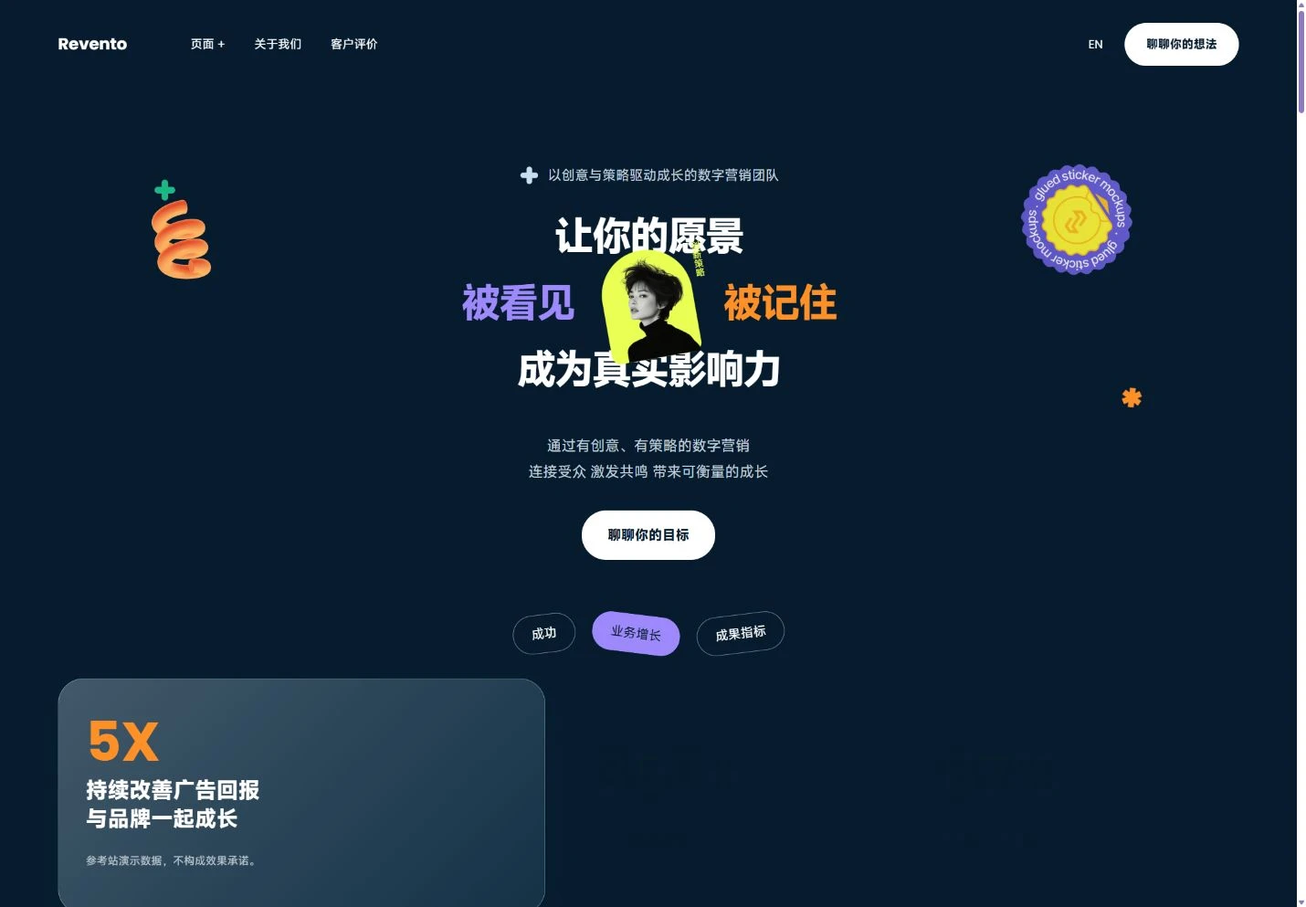
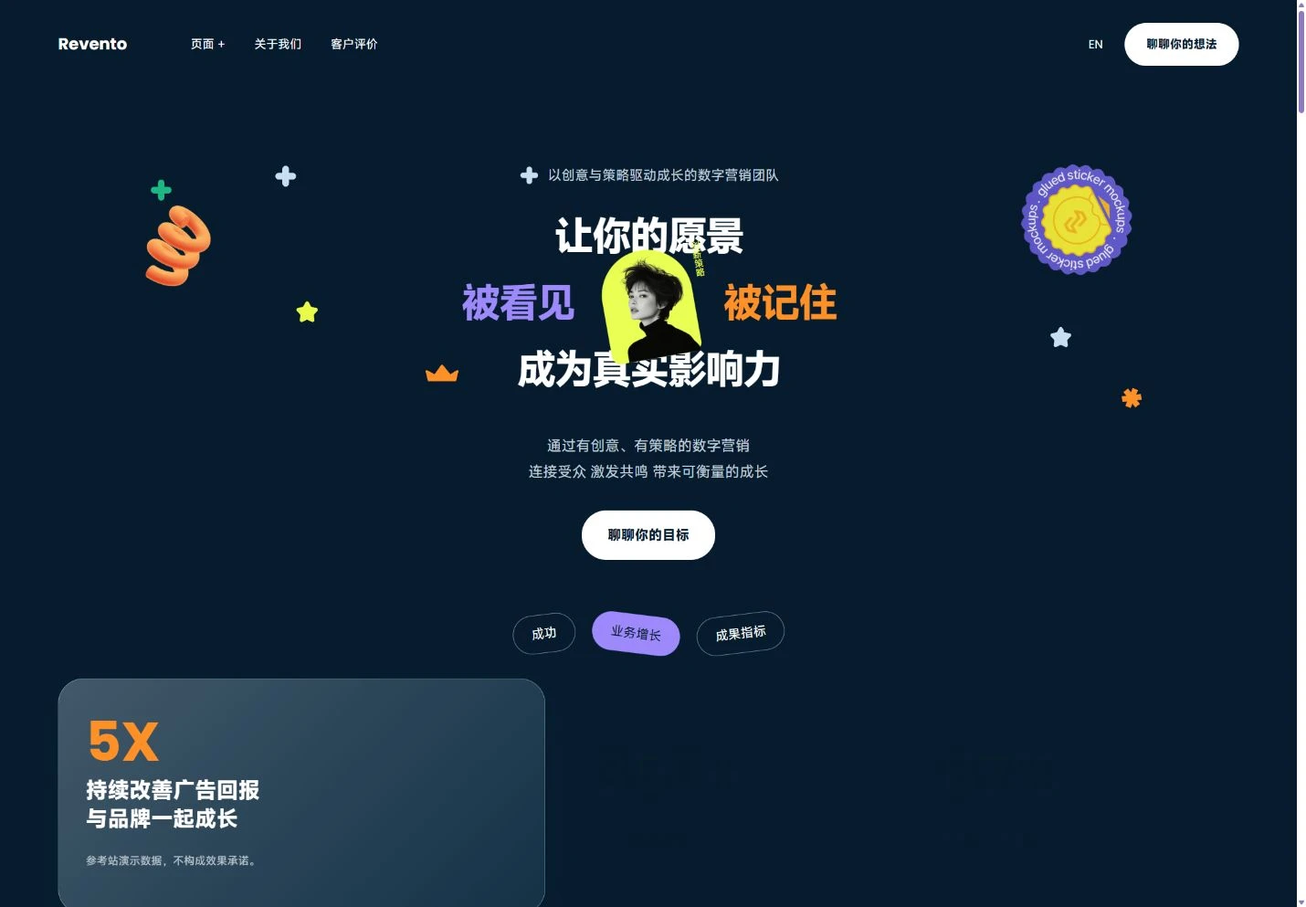
fix: match hero rotation and floating artwork

diff --git a/src/features/site-templates/catalog/revento/theme.css b/src/features/site-templates/catalog/revento/theme.css
@@ -5,7 +5,7 @@
 @font-face{font-family:ReventoPoppins;src:url('/templates/revento/fonts/poppins-latin-700.woff2') format('woff2');font-weight:700;font-display:swap}
 .revento{--rv-navy:#061c2e;--rv-ink:#071d2e;--rv-purple:#9d89fc;--rv-orange:#ff8f27;--rv-red:#f45e56;--rv-yellow:#e9ff53;--rv-muted:#627078;--rv-line:#dbe0e4;--rv-space:clamp(20px,4.5vw,64px);--rv-section:clamp(64px,8vw,120px);--rv-radius:28px;--rv-title:clamp(24px,3.4vw,44px);--rv-scroll-track:transparent;--rv-scroll-thumb:#8d7abd;--rv-glass:linear-gradient(135deg,#ffffff38,#ffffff08);--rv-shadow:0 14px 40px #1328400a;color:var(--rv-ink);background:white;font:16px/1.8 ReventoPoppins,ReventoMi,sans-serif;overflow-x:clip;isolation:isolate;min-height:100vh}.revento *{box-sizing:border-box}.revento :is(h1,h2,h3,h4,p){margin:0}.revento :is(h1,h2,h3,h4){font-weight:700;line-height:1.3;text-wrap:balance;white-space:pre-line}.revento a{color:inherit;text-decoration:none}.revento button{font:inherit;color:inherit;cursor:pointer}.revento img{display:block;max-width:100%}.revento :focus-visible{outline:3px solid var(--rv-orange);outline-offset:5px}.rv-container{width:min(1320px,calc(100% - var(--rv-space)*2));margin:auto;position:relative}.rv-section{padding:var(--rv-section) 0}.rv-title{font-size:var(--rv-title);text-transform:uppercase;letter-spacing:-.045em;line-height:1.35}.rv-title-line{display:block}.rv-word{display:inline-block;white-space:nowrap;perspective:500px}.rv-word>span{display:inline-block}.rv-section-heading{max-width:940px;margin-bottom:56px}.rv-kicker{font-size:16px;font-weight:700;color:var(--rv-red);text-transform:uppercase;margin-bottom:18px!important}.rv-intro{max-width:680px;color:var(--rv-muted);white-space:pre-line;margin-top:24px!important}.rv-button{display:inline-flex;align-items:center;justify-content:center;min-height:52px;border-radius:999px;background:white;color:var(--rv-ink)!important;padding:13px 28px;font-weight:600;border:1px solid transparent;transition:background .25s,transform .25s;font-size:15px;white-space:nowrap}.rv-button:hover{background:var(--rv-purple);transform:translateY(-3px)}.rv-dark-button{background:var(--rv-navy);color:#fff!important}.rv-dark-button:hover{background:var(--rv-orange);color:var(--rv-navy)!important}.rv-glass{background:var(--rv-glass),var(--rv-card-base,#fff);border:1px solid #ffffff4d;box-shadow:var(--rv-shadow);backdrop-filter:blur(12px)}.rv-purple{--rv-card-base:var(--rv-purple)}.rv-orange{--rv-card-base:var(--rv-orange)}.rv-dark-section{background:var(--rv-navy);color:#fff}.rv-dark-section .rv-intro{color:#b9c8d2}.rv-visually-hidden{position:absolute;width:1px;height:1px;padding:0;margin:-1px;overflow:hidden;clip:rect(0,0,0,0);white-space:nowrap;border:0}
 .rv-nav{position:absolute;z-index:30;top:22px;left:var(--rv-space);right:var(--rv-space);display:flex;align-items:center;gap:70px;color:#fff;min-height:54px}.rv-brand{font-size:18px;font-weight:700;display:inline-flex;align-items:center;gap:8px;white-space:nowrap}.rv-brand-logo{width:24px;height:24px}.rv-desktop-nav{display:flex;gap:32px;align-items:center;font-size:13px;text-transform:uppercase}.rv-desktop-nav>a:hover{color:var(--rv-purple)}.rv-pages-menu{position:relative}.rv-pages-menu summary{list-style:none;cursor:pointer}.rv-pages-menu summary::-webkit-details-marker{display:none}.rv-pages-menu>div{position:absolute;top:calc(100% + 20px);left:-20px;background:white;color:var(--rv-ink);display:grid;grid-template-columns:1fr 1fr;gap:8px 24px;padding:22px;min-width:350px;border-radius:18px;box-shadow:0 14px 45px #0003}.rv-pages-menu>div a{white-space:nowrap}.rv-pages-menu>div a:hover{color:#7659d0}.rv-nav-actions{margin-left:auto;display:flex;align-items:center;gap:24px}.rv-nav-contact{background:#fff;color:var(--rv-navy)!important;padding:12px 24px;border-radius:999px;font-size:13px;font-weight:600}.rv-language{font-size:13px}.rv-menu-toggle{display:none;width:42px;height:42px;border:1px solid #ffffff40;border-radius:50%;background:none;padding:10px}.rv-menu-toggle span{display:block;height:2px;background:#fff;margin:4px 0}.rv-mobile-menu{position:fixed;inset:0;z-index:80;background:var(--rv-navy);color:white;padding:80px var(--rv-space) 40px;overflow:auto;overscroll-behavior:contain}.rv-mobile-menu nav{display:grid;gap:10px;margin:20px 0}.rv-mobile-menu nav a{display:block;font-size:clamp(25px,5vw,40px);font-weight:700}.rv-menu-close{position:absolute;top:20px;right:20px;background:transparent;border:0;font-size:16px}.rv-skip{position:fixed;top:-100px;left:20px;z-index:100;padding:12px;background:#fff;color:var(--rv-navy)!important}.rv-skip:focus{top:20px}
-.rv-home-hero{background:var(--rv-navy);color:#fff;padding:180px 0 75px;overflow:clip}.rv-hero-note{display:flex;gap:9px;align-items:center;justify-content:center;color:#c4d3df;font-size:15px;margin-bottom:26px!important}.rv-hero-note img{width:24px;height:24px}.rv-home-title{font-size:clamp(28px,4.1vw,44px);letter-spacing:-.055em;text-align:center;text-transform:uppercase;line-height:1.3!important;max-width:1050px;margin:auto!important;position:relative;z-index:2}.rv-home-title>span{display:block}.rv-home-title:lang(en){font-size:clamp(30px,6.7vw,90px);line-height:1.15!important}.rv-colored-title{display:flex!important;align-items:center;justify-content:center;gap:20px}.rv-colored-title em{color:var(--rv-purple);font-style:normal}.rv-colored-title strong{color:var(--rv-orange)}.rv-colored-title img{width:100px;max-height:140px;object-fit:cover;transform:rotate(-10deg);margin:-15px 0}.rv-hero-spiral{position:absolute;left:7%;top:50px;width:90px;animation:rv-bob 6s ease-in-out infinite}.rv-hero-badge{position:absolute;right:9%;top:0;width:125px;animation:rv-rotate 24s linear infinite}.rv-hero-plus{position:absolute;width:28px;left:8%;top:15px}.rv-hero-star{position:absolute;width:28px;right:8%;top:245px;animation:rv-turn 5s ease-in-out infinite}.rv-hero-summary{text-align:center;margin:40px auto 0;max-width:650px}.rv-hero-summary>p{color:#c2d1dd;white-space:pre-line}.rv-hero-summary .rv-button{margin-top:28px}.rv-hero-tags{display:flex;justify-content:center;gap:18px;flex-wrap:wrap;margin:60px 0 28px}.rv-hero-tags span{border:1px solid #ffffff70;border-radius:999px;padding:8px 20px;font-size:14px;transform:rotate(-7deg)}.rv-hero-tags span:nth-child(2){transform:rotate(7deg);background:var(--rv-purple);border-color:transparent;color:var(--rv-ink)}.rv-results{display:grid;grid-template-columns:1.5fr 1fr 1fr;gap:24px;align-items:stretch}.rv-result-story,.rv-result-number{border-radius:var(--rv-radius);padding:30px;height:100%;min-height:260px}.rv-result-story{--rv-card-base:#0c2a40}.rv-result-story h2{font-size:24px}.rv-result-story h2 b{display:block;font-size:60px;color:var(--rv-orange);line-height:1.3}.rv-result-story>p{font-size:12px;color:#bdc8d1;margin-top:20px}.rv-result-number{color:var(--rv-ink);display:flex;flex-direction:column;justify-content:center;clip-path:polygon(0 0,88% 0,100% 12%,100% 100%,0 100%)}.rv-result-number b{font-size:clamp(36px,4.7vw,64px);line-height:1.2}.rv-result-number p{max-width:210px;margin-top:20px}.rv-hero-bottom-copy{text-align:center;color:#c8d3dc;max-width:750px;margin:50px auto 0!important;white-space:pre-line}.rv-banner{background:var(--rv-navy);color:white;text-align:center;position:relative;padding:180px 0 165px;overflow:clip}.rv-banner .rv-hero-title{font-size:clamp(28px,4.6vw,44px);line-height:1.3;text-transform:uppercase;letter-spacing:-.045em;max-width:1000px;margin:auto}.rv-banner p:last-of-type{color:#c1d1de;max-width:640px;margin:26px auto 0;white-space:pre-line}.rv-banner-star{position:absolute;right:12%;top:70px;width:35px;animation:rv-turn 7s ease-in-out infinite}.rv-banner:after{content:'';position:absolute;left:0;right:0;bottom:-1px;height:80px;background:url('/templates/revento/banner-cut.svg') center bottom/100% 100% no-repeat;pointer-events:none}
+.rv-home-hero{background:var(--rv-navy);color:#fff;padding:180px 0 75px;overflow:clip}.rv-hero-note{display:flex;gap:9px;align-items:center;justify-content:center;color:#c4d3df;font-size:15px;margin-bottom:26px!important}.rv-hero-note img{width:24px;height:24px}.rv-home-title{font-size:clamp(28px,4.1vw,44px);letter-spacing:-.055em;text-align:center;text-transform:uppercase;line-height:1.3!important;max-width:1050px;margin:auto!important;position:relative;z-index:2}.rv-home-title>span{display:block}.rv-home-title:lang(en){font-size:clamp(30px,6.7vw,90px);line-height:1.15!important}.rv-colored-title{display:flex!important;align-items:center;justify-content:center;gap:20px}.rv-colored-title em{color:var(--rv-purple);font-style:normal}.rv-colored-title strong{color:var(--rv-orange)}.rv-colored-title img{width:100px;max-height:140px;object-fit:cover;transform:rotate(-10deg);margin:-15px 0}.rv-hero-spiral{position:absolute;left:7%;top:50px;width:90px}.rv-hero-badge{position:absolute;right:9%;top:0;width:125px}.rv-hero-plus{position:absolute;width:28px;left:8%;top:15px}.rv-hero-star{position:absolute;width:28px;right:8%;top:245px}.rv-hero-summary{text-align:center;margin:40px auto 0;max-width:650px}.rv-hero-summary>p{color:#c2d1dd;white-space:pre-line}.rv-hero-summary .rv-button{margin-top:28px}.rv-hero-tags{display:flex;justify-content:center;gap:18px;flex-wrap:wrap;margin:60px 0 28px}.rv-hero-tags span{border:1px solid #ffffff70;border-radius:999px;padding:8px 20px;font-size:14px;transform:rotate(-7deg)}.rv-hero-tags span:nth-child(2){transform:rotate(7deg);background:var(--rv-purple);border-color:transparent;color:var(--rv-ink)}.rv-results{display:grid;grid-template-columns:1.5fr 1fr 1fr;gap:24px;align-items:stretch}.rv-result-story,.rv-result-number{border-radius:var(--rv-radius);padding:30px;height:100%;min-height:260px}.rv-result-story{--rv-card-base:#0c2a40}.rv-result-story h2{font-size:24px}.rv-result-story h2 b{display:block;font-size:60px;color:var(--rv-orange);line-height:1.3}.rv-result-story>p{font-size:12px;color:#bdc8d1;margin-top:20px}.rv-result-number{color:var(--rv-ink);display:flex;flex-direction:column;justify-content:center;clip-path:polygon(0 0,88% 0,100% 12%,100% 100%,0 100%)}.rv-result-number b{font-size:clamp(36px,4.7vw,64px);line-height:1.2}.rv-result-number p{max-width:210px;margin-top:20px}.rv-hero-bottom-copy{text-align:center;color:#c8d3dc;max-width:750px;margin:50px auto 0!important;white-space:pre-line}.rv-banner{background:var(--rv-navy);color:white;text-align:center;position:relative;padding:180px 0 165px;overflow:clip}.rv-banner .rv-hero-title{font-size:clamp(28px,4.6vw,44px);line-height:1.3;text-transform:uppercase;letter-spacing:-.045em;max-width:1000px;margin:auto}.rv-banner p:last-of-type{color:#c1d1de;max-width:640px;margin:26px auto 0;white-space:pre-line}.rv-banner-star{position:absolute;right:12%;top:70px;width:35px;animation:rv-turn 7s ease-in-out infinite}.rv-banner:after{content:'';position:absolute;left:0;right:0;bottom:-1px;height:80px;background:url('/templates/revento/banner-cut.svg') center bottom/100% 100% no-repeat;pointer-events:none}
 .rv-service-grid{display:grid;grid-template-columns:repeat(3,1fr);gap:28px}.rv-service-card{display:block;border:1px solid var(--rv-line);border-radius:var(--rv-radius);padding:34px;min-height:295px;height:100%;transition:background .3s,transform .3s}.rv-service-card>img{width:70px;height:70px;object-fit:contain;margin-bottom:26px;transition:transform .5s}.rv-service-card h3{font-size:23px;text-transform:uppercase}.rv-service-card p{margin-top:18px;color:var(--rv-muted)}.rv-service-card:hover{--rv-card-base:#eee9ff;transform:translateY(-5px)}.rv-service-card:hover>img{transform:rotate(90deg)}.rv-why-grid{display:grid;grid-template-columns:1fr 1fr 1fr;gap:25px}.rv-why-card{border-radius:var(--rv-radius);padding:35px;height:100%;min-height:430px;display:flex;flex-direction:column;clip-path:polygon(0 0,87% 0,100% 12%,100% 100%,0 100%)}.rv-why-card h3{font-size:25px;text-transform:uppercase}.rv-why-card p{margin:22px 0}.rv-why-card strong{font-size:56px;line-height:1.3;margin-top:auto}.rv-why-card>span{font-size:13px}.rv-why-photo{height:100%;border-radius:var(--rv-radius);overflow:hidden}.rv-why-photo img{width:100%;height:100%;object-fit:cover}.rv-process{display:grid;gap:24px}.rv-process-item{border:1px solid var(--rv-line);border-radius:var(--rv-radius);overflow:hidden;position:relative;background:white}.rv-process-item:before{content:'';position:absolute;top:0;right:12%;width:45px;height:35px;background:white;clip-path:polygon(0 0,100% 0,0 100%);pointer-events:none;z-index:1}.rv-process-item.is-open{background:var(--rv-orange);border-color:transparent}.rv-process-item>button{display:grid;grid-template-columns:95px 1.2fr 1fr;gap:25px;width:100%;align-items:center;text-align:left;padding:35px;border:0;background:none;font-weight:700;text-transform:uppercase;font-size:24px}.rv-process-number{font-size:clamp(44px,6vw,80px);line-height:1.2}.rv-process-description{font-size:15px;font-weight:400;line-height:1.8;text-transform:none;opacity:0;transition:opacity .3s}.rv-process-item.is-open .rv-process-description{opacity:1}.rv-process-item>div{overflow:hidden}.rv-process-item>div>img{width:calc(100% - 70px);margin:0 35px 35px;border-radius:18px;max-height:320px;object-fit:contain;object-position:center bottom}.rv-statement{background:var(--rv-glass),var(--rv-purple);border-radius:45px;padding:75px;position:relative;overflow:hidden;text-align:center}.rv-statement h2{font-size:var(--rv-title);text-transform:uppercase;max-width:900px;margin:auto}.rv-statement-tags{display:flex;justify-content:center;gap:20px;margin-bottom:35px;flex-wrap:wrap}.rv-statement-tags span{border:1px solid var(--rv-ink);border-radius:999px;padding:5px 16px;font-size:12px;transform:rotate(-6deg)}.rv-statement-tags span:nth-child(2){transform:rotate(7deg)}.rv-statement .rv-button{margin-top:40px}.rv-statement-art{position:absolute;width:100px;bottom:-15px;right:12px;transform:rotate(35deg)}.rv-value-grid{display:grid;grid-template-columns:repeat(4,1fr);gap:24px}.rv-value-card{border-radius:var(--rv-radius);padding:28px;border:1px solid var(--rv-line);height:100%;min-height:240px}.rv-value-card img{width:46px;height:46px;object-fit:contain;margin-bottom:20px}.rv-value-card h3{font-size:20px;text-transform:uppercase}.rv-value-card p{font-size:15px;color:var(--rv-muted);margin-top:14px}
 .rv-carousel{overflow:hidden;position:relative;touch-action:pan-y}.rv-carousel-track{display:flex;gap:24px;cursor:grab;will-change:transform}.rv-carousel-track:active{cursor:grabbing}.rv-slide{flex:none;min-width:0}.rv-carousel-controls{display:flex;gap:12px;align-items:center;margin-top:35px}.rv-carousel-controls button{display:grid;place-items:center;width:42px;height:42px;border:0;border-radius:50%;background:var(--rv-navy);color:#fff;font-size:22px}.rv-carousel-controls button:hover{background:var(--rv-purple);color:var(--rv-navy)}.rv-work-grid{display:grid;grid-template-columns:repeat(3,1fr);gap:28px}.rv-image-wrap{border-radius:var(--rv-radius);overflow:hidden;background:#f1eff8}.rv-image-wrap img{width:100%;aspect-ratio:1.2;object-fit:cover;transition:transform .65s cubic-bezier(.22,1,.36,1)}.rv-work-card h3,.rv-blog-card h3{font-size:22px;text-transform:uppercase;margin-top:22px}.rv-work-card p,.rv-blog-card p{font-size:15px;color:var(--rv-muted);margin-top:12px}.rv-work-card:hover .rv-image-wrap img,.rv-blog-card:hover .rv-image-wrap img{transform:scale(1.05)}.rv-work-card{display:block}.rv-blog-grid{display:grid;grid-template-columns:1fr 1fr;gap:45px 28px}.rv-article-meta{display:flex;flex-wrap:wrap;justify-content:space-between;gap:15px;color:var(--rv-muted);font-size:13px;margin:20px 0}.rv-featured-article{display:grid;grid-template-columns:1fr 1fr;gap:70px;align-items:center}.rv-featured-article h2{font-size:clamp(24px,2.6vw,36px);text-transform:uppercase}.rv-featured-article p{color:var(--rv-muted);margin:25px 0 30px}.rv-featured-article>img{width:100%;aspect-ratio:1.2;object-fit:cover;border-radius:var(--rv-radius);clip-path:polygon(0 0,85% 0,92% 8%,92% 0,100% 0,100% 100%,0 100%,0 65%,8% 70%,0 60%)}.rv-load-more{display:flex;margin:55px auto 0}.rv-team-grid{display:grid;grid-template-columns:repeat(3,1fr);gap:45px 28px}.rv-team-grid .rv-image-wrap img{aspect-ratio:.93;object-fit:cover}.rv-team-grid h3{text-transform:uppercase;font-size:21px;margin-top:20px}.rv-team-grid p{color:var(--rv-muted);font-size:14px;margin-top:7px}.rv-spotlight{background:#f6f3ff}.rv-spotlight-grid{display:grid;grid-template-columns:.8fr 1.2fr;gap:90px;align-items:center}.rv-spotlight-photo{border-radius:40px 130px 40px 130px;overflow:hidden;max-height:480px}.rv-spotlight-photo img{width:100%;height:480px;object-fit:cover;object-position:center top}.rv-spotlight h2{font-size:clamp(26px,3.4vw,44px);text-transform:uppercase;margin-bottom:26px}.rv-spotlight p:last-child{color:var(--rv-muted);font-size:14px}.rv-reviews-grid{display:grid;grid-template-columns:1fr 1fr;gap:28px}.rv-review{border-radius:var(--rv-radius);padding:38px;border:1px solid var(--rv-line);height:100%}.rv-quote-mark{font-size:70px;line-height:1;color:var(--rv-purple)}.rv-review h3{font-size:23px;text-transform:uppercase}.rv-review>p{color:var(--rv-muted);margin:25px 0}.rv-review>div{display:flex;align-items:center;gap:16px}.rv-review>div>img{width:52px;height:52px;object-fit:cover;border-radius:50%}.rv-review strong,.rv-review small{display:block}.rv-review strong{font-size:14px}.rv-review small{font-size:12px;color:var(--rv-muted)}
 .rv-pricing-grid{display:grid;grid-template-columns:repeat(3,1fr);gap:28px}.rv-price-card{border-radius:var(--rv-radius);padding:38px;border:1px solid var(--rv-line);height:100%;position:relative;display:flex;flex-direction:column}.rv-price-1{--rv-card-base:#eee8ff;border-color:var(--rv-purple)}.rv-price-card h3{font-size:25px;text-transform:uppercase}.rv-price-card>p{font-size:15px;color:var(--rv-muted);margin:20px 0 28px}.rv-price-card h4{font-size:16px;margin:0 0 14px}.rv-price-card ul{list-style:none;margin:0 0 30px;padding:0;display:grid;gap:12px;font-size:15px}.rv-price-card li{padding-left:22px;position:relative}.rv-price-card li:before{position:absolute;left:0;content:'✓';color:#6b53bd}.rv-price{display:flex;gap:8px;align-items:baseline;margin-top:auto;margin-bottom:25px}.rv-price strong{font-size:42px;line-height:1.3}.rv-price span{font-size:13px}.rv-popular{position:absolute;top:-16px;right:20px;background:var(--rv-navy);color:#fff;border-radius:999px;padding:6px 18px;font-size:12px}.rv-faq-grid{display:grid;grid-template-columns:.85fr 1.15fr;gap:70px}.rv-faq>div{border-bottom:1px solid var(--rv-line);padding:22px 0}.rv-faq>div:first-child{padding-top:0}.rv-faq button{display:flex;align-items:center;width:100%;gap:18px;padding:0;background:none;border:0;text-align:left;font-size:18px;font-weight:700}.rv-faq button img{width:36px;height:36px;object-fit:contain}.rv-faq button>b{margin-left:auto;font-size:24px}.rv-faq [id^=revento-faq]{overflow:hidden}.rv-faq [id^=revento-faq] p{color:var(--rv-muted);padding:18px 0 0 54px}
@@ -35,3 +35,5 @@ html[data-revento-page]{--rv-page-scroll-track:transparent;--rv-page-scroll-thum
 .rv-vertical-carousel .rv-carousel-controls>.rv-visually-hidden{position:static;clip:auto;width:auto;height:auto;overflow:visible;order:1;white-space:normal;font-size:24px;margin-left:20px}
 .rv-vertical-carousel .rv-carousel-controls button{color:var(--rv-purple);background:transparent;font-size:36px}
 @media(max-width:700px){.rv-work-showcase{display:flex;flex-direction:column;gap:25px}.rv-work-showcase>img{height:340px}.rv-work-showcase h3{font-size:18px;margin-top:14px}.rv-work-showcase p{font-size:15px;margin-top:14px}}
+
+.rv-hero-artwork{position:absolute;inset:0;pointer-events:none}.rv-hero-heart,.rv-hero-floater,.rv-hero-small-star,.rv-hero-crown{position:absolute;width:28px}.rv-hero-heart{left:18%;top:0}.rv-hero-floater{right:14%;top:180px}.rv-hero-small-star{left:20%;top:150px}.rv-hero-crown{left:31%;top:220px;width:40px}@media(max-width:700px){.rv-hero-heart,.rv-hero-floater,.rv-hero-small-star,.rv-hero-crown{display:none}}

diff --git a/src/features/site-templates/catalog/revento/pages/Home.tsx b/src/features/site-templates/catalog/revento/pages/Home.tsx
@@ -8,6 +8,7 @@ import {asset,art} from '../config'
 import {intro,demoFigures} from '../content/data'
 import {Shell,useRevento} from '../components/Shell'
 import {Reveal} from '../components/Motion'
+import {HeroArtwork} from '../components/HeroArtwork'
 import {Heading,ServicesGrid,Process,FeaturedWorks,Statement,TestimonialSpotlight,FAQ} from '../components/Sections'
-function Content(){const{t,href,locale}=useRevento(),reduce=useReducedMotion();return <><section className="rv-home-hero"><div className="rv-container"><p className="rv-hero-note"><img src={asset(art.heart)} alt=""/>{t(copy.popularDigitalMarketingAgency)}</p><motion.h1 className="rv-home-title" aria-label={t(copy.transformingVisionIntoImpactEffectively)} initial={reduce?false:{opacity:0,y:50}} animate={{opacity:1,y:0}} transition={{duration:.8,ease:[.22,1,.36,1]}}><span>{t(copy.transforming)}</span><span className="rv-colored-title"><em>{t(copy.visionInto)}</em><span className="rv-portrait-frame"><img src={asset(art.portrait)} alt=""/><small>{t(copy.innovativeStrategy)}</small></span><strong>{t(copy.impact)}</strong></span><span>{t(copy.effectively)}</span></motion.h1><img className="rv-hero-spiral" src={asset(art.spiral)} alt=""/><img className="rv-hero-badge" src={asset(art.badge)} alt=""/><img className="rv-hero-plus" src={asset(art.plus)} alt=""/><img className="rv-hero-star" src={asset(art.star)} alt=""/><Reveal className="rv-hero-summary"><p>{t(intro)}</p><Link className="rv-button" href={href('contact')}>{t(copy.getInTouch)}</Link></Reveal><div className="rv-hero-tags"><span>{t(copy.success)}</span><span>{t(copy.businessGrowth)}</span><span>{t(copy.performanceMetrics)}</span></div><div className="rv-results"><Reveal><article className="rv-result-story rv-glass"><h2><b>{demoFigures.home.roi}</b>{t(copy.achievedRoiOnAdSpendConsistentlyAverage)}</h2><p>{locale==='zh'?'参考站演示数据，不构成效果承诺。':'Reference-site demo figures; not a performance guarantee.'}</p></article></Reveal><Reveal delay={.1}><article className="rv-result-number rv-purple"><b>{demoFigures.home.campaigns}</b><p>{t(copy.successfulCampaignsLaunchedIndustries)}</p></article></Reveal><Reveal delay={.2}><article className="rv-result-number rv-orange"><b>{demoFigures.home.conversion}</b><p>{t(copy.growthInConversionRatesOnAverage)}</p></article></Reveal></div><p className="rv-hero-bottom-copy">{t(copy.helpingBrandsThriveWithStrategicCampaignsCreative)}</p></div></section><section className="rv-section"><div className="rv-container"><Heading eyebrow={copy.ourServices} title={copy.servicesDesignedToDriveRealResults}/><ServicesGrid/></div></section><section className="rv-section"><div className="rv-container"><Heading eyebrow={copy.whyChooseUs} title={copy.whyBrandIsTheTrustedChoice}/><div className="rv-why-grid"><Reveal><article className="rv-why-card rv-orange rv-glass"><h3>{t(copy.provenExpertise)}</h3><p>{t(copy.withYearsOfExperienceAndATrack)}</p><strong>{demoFigures.home.expertise}</strong><span>{t(copy.successfulCampaignsDemoFigures)}</span></article></Reveal><Reveal><div className="rv-why-photo"><img src={asset(art.why)} alt={t(copy.creativeTeamCollaboration)}/></div></Reveal><Reveal><article className="rv-why-card rv-purple rv-glass"><h3>{t(copy.dataDrivenApproach)}</h3><p>{t(copy.usingProvenTechniquesWeBuildStrategiesThat)}</p><strong>{demoFigures.home.growth}</strong><span>{t(copy.growthInConversionRatesDemoFigures)}</span></article></Reveal></div></div></section><Process/><Statement/><FeaturedWorks/><TestimonialSpotlight/><FAQ/></>}
+function Content(){const{t,href,locale}=useRevento(),reduce=useReducedMotion();return <><section className="rv-home-hero"><div className="rv-container"><p className="rv-hero-note"><img src={asset(art.heart)} alt=""/>{t(copy.popularDigitalMarketingAgency)}</p><motion.h1 className="rv-home-title" aria-label={t(copy.transformingVisionIntoImpactEffectively)} initial={reduce?false:{opacity:0,y:50}} animate={{opacity:1,y:0}} transition={{duration:.8,ease:[.22,1,.36,1]}}><span>{t(copy.transforming)}</span><span className="rv-colored-title"><em>{t(copy.visionInto)}</em><span className="rv-portrait-frame"><img src={asset(art.portrait)} alt=""/><small>{t(copy.innovativeStrategy)}</small></span><strong>{t(copy.impact)}</strong></span><span>{t(copy.effectively)}</span></motion.h1><HeroArtwork/><Reveal className="rv-hero-summary"><p>{t(intro)}</p><Link className="rv-button" href={href('contact')}>{t(copy.getInTouch)}</Link></Reveal><div className="rv-hero-tags"><span>{t(copy.success)}</span><span>{t(copy.businessGrowth)}</span><span>{t(copy.performanceMetrics)}</span></div><div className="rv-results"><Reveal><article className="rv-result-story rv-glass"><h2><b>{demoFigures.home.roi}</b>{t(copy.achievedRoiOnAdSpendConsistentlyAverage)}</h2><p>{locale==='zh'?'参考站演示数据，不构成效果承诺。':'Reference-site demo figures; not a performance guarantee.'}</p></article></Reveal><Reveal delay={.1}><article className="rv-result-number rv-purple"><b>{demoFigures.home.campaigns}</b><p>{t(copy.successfulCampaignsLaunchedIndustries)}</p></article></Reveal><Reveal delay={.2}><article className="rv-result-number rv-orange"><b>{demoFigures.home.conversion}</b><p>{t(copy.growthInConversionRatesOnAverage)}</p></article></Reveal></div><p className="rv-hero-bottom-copy">{t(copy.helpingBrandsThriveWithStrategicCampaignsCreative)}</p></div></section><section className="rv-section"><div className="rv-container"><Heading eyebrow={copy.ourServices} title={copy.servicesDesignedToDriveRealResults}/><ServicesGrid/></div></section><section className="rv-section"><div className="rv-container"><Heading eyebrow={copy.whyChooseUs} title={copy.whyBrandIsTheTrustedChoice}/><div className="rv-why-grid"><Reveal><article className="rv-why-card rv-orange rv-glass"><h3>{t(copy.provenExpertise)}</h3><p>{t(copy.withYearsOfExperienceAndATrack)}</p><strong>{demoFigures.home.expertise}</strong><span>{t(copy.successfulCampaignsDemoFigures)}</span></article></Reveal><Reveal><div className="rv-why-photo"><img src={asset(art.why)} alt={t(copy.creativeTeamCollaboration)}/></div></Reveal><Reveal><article className="rv-why-card rv-purple rv-glass"><h3>{t(copy.dataDrivenApproach)}</h3><p>{t(copy.usingProvenTechniquesWeBuildStrategiesThat)}</p><strong>{demoFigures.home.growth}</strong><span>{t(copy.growthInConversionRatesDemoFigures)}</span></article></Reveal></div></div></section><Process/><Statement/><FeaturedWorks/><TestimonialSpotlight/><FAQ/></>}
 export default function Home(props:SiteTemplatePageProps){return <Shell {...props}><Content/></Shell>}

diff --git a/src/features/site-templates/catalog/revento/components/HeroArtwork.tsx b/src/features/site-templates/catalog/revento/components/HeroArtwork.tsx
@@ -1,0 +1,19 @@
+'use client'
+import {motion,useReducedMotion} from 'framer-motion'
+import {asset,art} from '../config'
+
+/** 根据原站连续采样：圆环正向 10 秒，星形反向 9 秒；螺旋保持倾角沿横轴往返。 */
+export function HeroArtwork(){
+ const reduce=useReducedMotion()
+ const drift=(seconds:number)=>({duration:reduce?0:seconds,repeat:reduce?0:Infinity,repeatType:'reverse' as const,ease:'easeInOut' as const})
+ return <div className="rv-hero-artwork" aria-hidden="true">
+  <motion.img className="rv-hero-spiral" src={asset(art.spiral)} alt="" initial={{x:0,rotate:-129.91}} animate={{x:reduce?0:[0,-20],rotate:-129.91}} transition={drift(2)}/>
+  <motion.img className="rv-hero-badge" src={asset(art.badge)} alt="" initial={{rotate:0}} animate={{rotate:reduce?0:360}} transition={{duration:reduce?0:10,repeat:reduce?0:Infinity,ease:'linear'}}/>
+  <motion.img className="rv-hero-plus" src={asset(art.plus)} alt="" initial={{x:0}} animate={{x:reduce?0:[0,-20]}} transition={drift(3)}/>
+  <motion.img className="rv-hero-star" src={asset(art.star)} alt="" initial={{rotate:0}} animate={{rotate:reduce?0:-360}} transition={{duration:reduce?0:9,repeat:reduce?0:Infinity,ease:'linear'}}/>
+  <motion.img className="rv-hero-heart" src={asset(art.heart)} alt="" initial={{x:0}} animate={{x:reduce?0:[0,10]}} transition={drift(3)}/>
+  <motion.img className="rv-hero-floater" src={asset('BGqpp1YM4qKJdHY9REqeaffeszU.svg')} alt="" initial={{y:0}} animate={{y:reduce?0:[0,-20]}} transition={drift(4)}/>
+  <img className="rv-hero-small-star" src={asset(art.smallStar)} alt=""/>
+  <img className="rv-hero-crown" src={asset(art.crown)} alt=""/>
+ </div>
+}

diff --git a/.tpl/docs/ARCHITECTURE.md b/.tpl/docs/ARCHITECTURE.md
@@ -9,3 +9,5 @@ host.tsx 是可选宿主身份边界。独立路由入口为 src/app/[[...slug]]
 原站显式 /404 入口已注册，并复用 NotFound 页面；独立站 /404 与未知路径返回真实 HTTP 404。共享包消费方可用此入口预览模板错误页，消费方自身路由决定其 HTTP 状态。页面清单为 33 个业务页与一项错误页展示入口，均支持双语。
 
 Carousel.tsx 的手势层与分页内容层分离，禁止重新把归零约束加在已偏移的轨道上；原生图片拖动在轮播边界取消。
+
+1.0.1 首屏装饰统一由 components/HeroArtwork.tsx 管理；圆环正向 10 秒一圈，星形反向 9 秒一圈；螺旋保持 -129.91 度倾角沿横轴往返，心形、加号与悬浮小图形分别漂移。theme.css 只管理布局，不再叠加第二套旋转动画。
